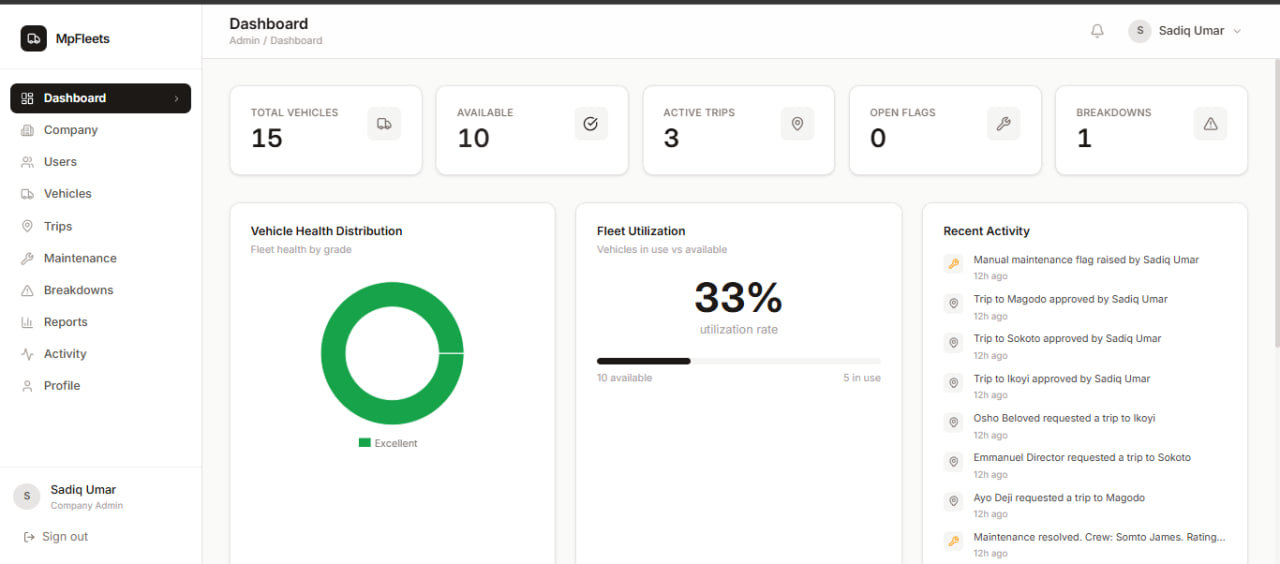
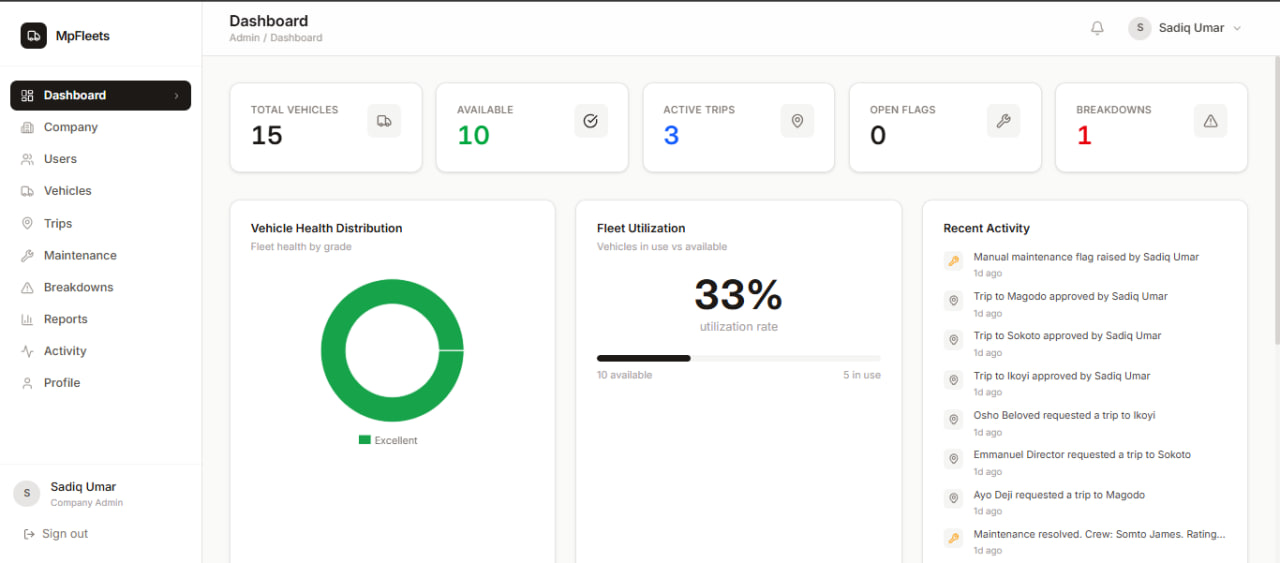
feat: migrate RTK Query to entity-level caching with LIST sentinel pattern
- Upgraded all 8 API slices (vehicles, trips, breakdowns, users, companies,
  maintenance, platform, apiSlice) to use { type, id: 'LIST' } sentinel pattern
- Added entity-level providesTags to all list queries for surgical invalidation
- Fixed resetUserPassword missing invalidatesTags (data correctness bug)
- Fixed updateProgress and submitRating missing LIST invalidation
- Wired cross-file invalidation chains: dispatchReplacement, logMileage, resolveFlag
- Removed redundant refetchOnMountOrArgChange where tag invalidation is sufficient
- Removed unused Platform tag type from apiSlice tagTypes
- Fixed pre-existing MSW URL mismatch in vitest.config.js
- Fixed formatCurrency test assertion mismatch (NGN default)
- Renamed product from FleetOps to MpFleets across UI and documentation
- Cleaned up handleDownloadPdf: removed console.logs and dead commented code

Tests: 112/112 passing
Cache health: 10/10

diff --git a/src/pages/admin/AdminDashboard.jsx b/src/pages/admin/AdminDashboard.jsx
@@ -1,4 +1,5 @@
 import { useMemo, Suspense } from 'react'
+import { useNavigate } from 'react-router-dom'
 import { Truck, MapPin, Wrench, AlertTriangle, CheckCircle } from 'lucide-react'
 import PageWrapper from '../../components/layout/PageWrapper'
 import MetricCard from '../../components/ui/MetricCard'
@@ -30,6 +31,7 @@ function ActivityIcon({ type }) {
 }
 
 export default function AdminDashboard() {
+  const navigate = useNavigate()
   const toast = useToast()
   const { data: vehicles, isLoading: loadingVehicles } = useGetVehiclesQuery()
   const { data: trips, isLoading: loadingTrips } = useGetTripsQuery()
@@ -95,10 +97,10 @@ export default function AdminDashboard() {
           ? Array(5).fill(0).map((_, i) => <SkeletonMetricCard key={i} />)
           : [
             { title: 'Total Vehicles', value: totalVehicles, icon: Truck },
-            { title: 'Available', value: available, icon: CheckCircle, accent: true },
-            { title: 'Active Trips', value: activeTrips, icon: MapPin },
+            { title: 'Available', value: available, icon: CheckCircle, accent: true, valueColor: 'text-green-600', onClick: () => navigate('/admin/vehicles') },
+            { title: 'Active Trips', value: activeTrips, icon: MapPin, valueColor: 'text-blue-600', onClick: () => navigate('/admin/trips') },
             { title: 'Open Flags', value: openFlags, icon: Wrench },
-            { title: 'Breakdowns', value: activeBreakdowns, icon: AlertTriangle },
+            { title: 'Breakdowns', value: activeBreakdowns, icon: AlertTriangle, valueColor: 'text-red-600', onClick: () => navigate('/admin/breakdowns') },
           ].map((m) => <MetricCard key={m.title} {...m} />)
         }
       </div>

diff --git a/src/pages/platform/PlatformDashboard.jsx b/src/pages/platform/PlatformDashboard.jsx
@@ -1,4 +1,5 @@
 import { useState } from 'react'
+import { useNavigate } from 'react-router-dom'
 import { Building2, Truck, Wrench, AlertTriangle, CheckCircle, XCircle } from 'lucide-react'
 import PageWrapper from '../../components/layout/PageWrapper'
 import MetricCard from '../../components/ui/MetricCard'
@@ -15,6 +16,7 @@ import { formatRelativeTime } from '../../utils/formatters'
 import Modal from '../../components/ui/Modal'
 
 export default function PlatformDashboard() {
+  const navigate = useNavigate()
   const toast = useToast()
   const { data: summary, isLoading: loadingSummary } = useGetPlatformDashboardQuery()
   const { data: companies, isLoading: loadingCompanies } = useGetPlatformCompaniesQuery()
@@ -55,7 +57,7 @@ export default function PlatformDashboard() {
     { title: 'Total Companies', value: summary?.totalCompanies, icon: Building2 },
     { title: 'Active Companies', value: summary?.activeCompanies, icon: CheckCircle, accent: true },
     { title: 'Open Maintenance Flags', value: summary?.totalOpenFlags, icon: Wrench },
-    { title: 'Total Breakdowns', value: summary?.totalBreakdowns, icon: AlertTriangle },
+    { title: 'Total Breakdowns', value: summary?.totalBreakdowns, icon: AlertTriangle, valueColor: 'text-red-600', onClick: () => navigate('/platform/breakdowns') },
   ]
 
   return (

diff --git a/src/pages/admin/VehicleDetailPage.jsx b/src/pages/admin/VehicleDetailPage.jsx
@@ -75,27 +75,9 @@ export default function VehicleDetailPage() {
   const [pendingImages, setPendingImages] = useState([])
 
   const mediaList = vehicle?.images ?? []
-
-  // async function handleDownloadPdf() {
-  //   const response = await fetch(
-  //     `${import.meta.env.VITE_API_BASE_URL}/api/vehicles/${id}/lifecycle.pdf`,
-  //     { headers: { Authorization: `Bearer ${token}` } }
-  //   )
-  //   if (!response.ok) {
-  //     toast.error('Failed to download PDF')
-  //     return
-  //   }
-  //   const blob = await response.blob()
-  //   const url = window.URL.createObjectURL(blob)
-  //   window.open(url, '_blank')
-  // }
-
   async function handleDownloadPdf() {
     try {
       const url = `${import.meta.env.VITE_API_BASE_URL}/api/vehicles/${id}/lifecycle.pdf`
-
-      console.log('PDF URL:', url)
-      console.log('Token exists:', !!token)
 
       const response = await fetch(url, {
         method: 'GET',
@@ -114,8 +96,7 @@ export default function VehicleDetailPage() {
       const fileUrl = window.URL.createObjectURL(blob)
       window.open(fileUrl, '_blank')
     } catch (error) {
-      console.error('PDF download failed:', error)
-      toast.error('Could not connect to backend to download PDF')
+      toast.error('Could not connect to backend to download PDF'+ error)
     }
   }
 

diff --git a/src/components/ui/MetricCard.jsx b/src/components/ui/MetricCard.jsx
@@ -1,18 +1,20 @@
 import { cn } from '../../utils/cn'
 
-export default function MetricCard({ title, value, icon: Icon, trend, className, accent }) {
+export default function MetricCard({ title, value, icon: Icon, trend, className, accent, onClick, valueColor }) {
   return (
     <div
+      onClick={onClick}
       className={cn(
         'bg-white rounded-xl p-6 border border-stone-200 animate-fade-up',
         'shadow-[0_1px_3px_rgba(0,0,0,0.08),0_1px_2px_rgba(0,0,0,0.04)]',
+        onClick && 'cursor-pointer hover:bg-stone-50 transition-colors',
         className,
       )}
     >
       <div className="flex items-start justify-between">
         <div className="flex-1 min-w-0">
           <p className="text-xs font-medium text-stone-500 uppercase tracking-wide mb-1">{title}</p>
-          <p className={cn('text-3xl font-semibold text-stone-900 tabular-nums', accent && 'text-stone-800')}>
+          <p className={cn('text-3xl font-semibold text-stone-900 tabular-nums', accent && 'text-stone-800', valueColor)}>
             {value ?? '—'}
           </p>
           {trend && (

diff --git a/src/pages/staff/StaffDashboard.jsx b/src/pages/staff/StaffDashboard.jsx
@@ -28,7 +28,7 @@ export default function StaffDashboard() {
         {loadingVehicles || loadingTrips
           ? Array(4).fill(0).map((_, i) => <SkeletonMetricCard key={i} />)
           : [
-            { title: 'Available Vehicles', value: vehicleCount, icon: Truck },
+            { title: 'Available Vehicles', value: vehicleCount, icon: Truck, valueColor: 'text-green-600', onClick: () => navigate('/staff/vehicles/available') },
             { title: 'Pending Trips', value: pendingTrips, icon: MapPin },
             { title: 'Approved Trips', value: approvedTrips, icon: CheckCircle, accent: true },
             { title: 'Completed', value: completedTrips, icon: CheckCircle },
